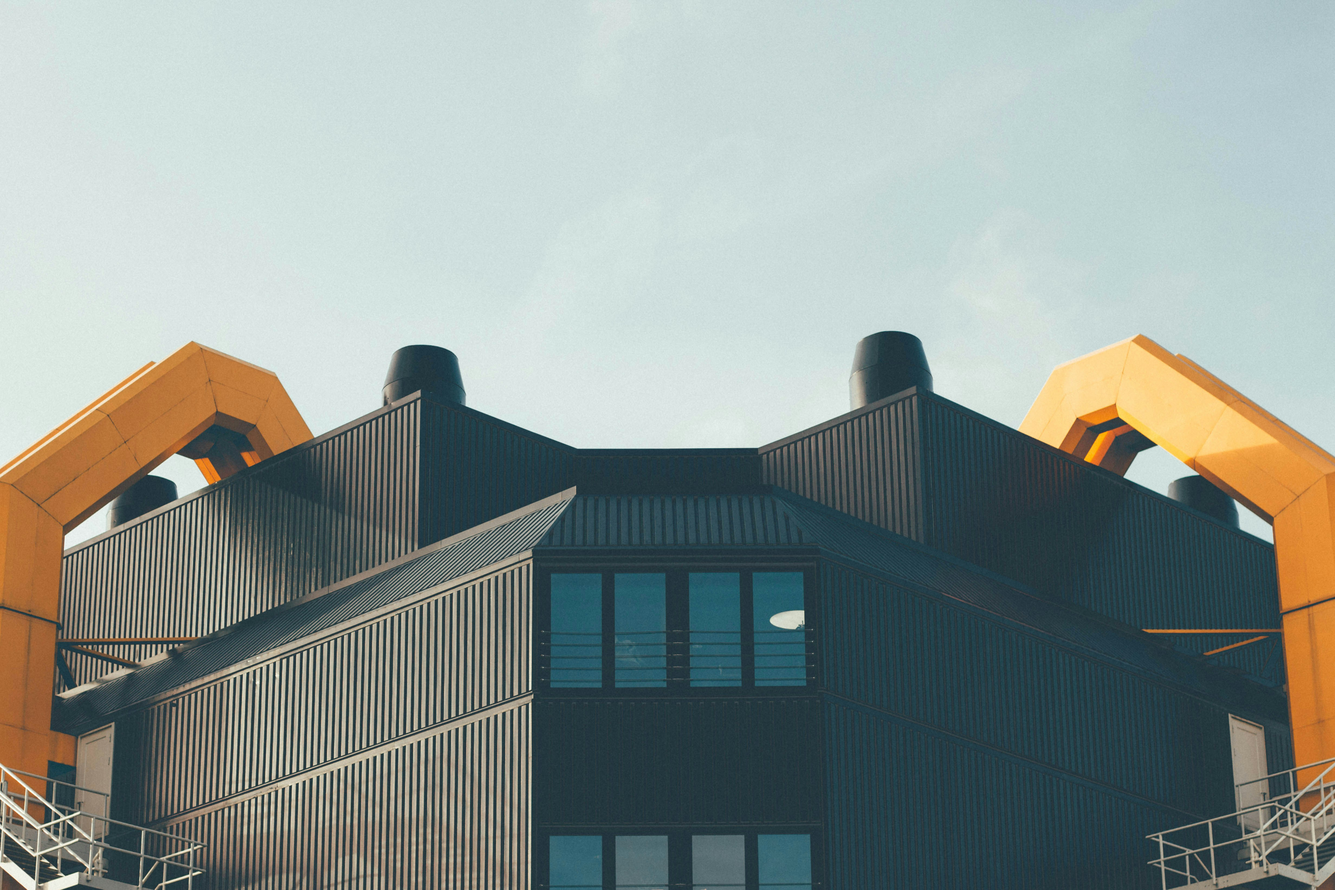
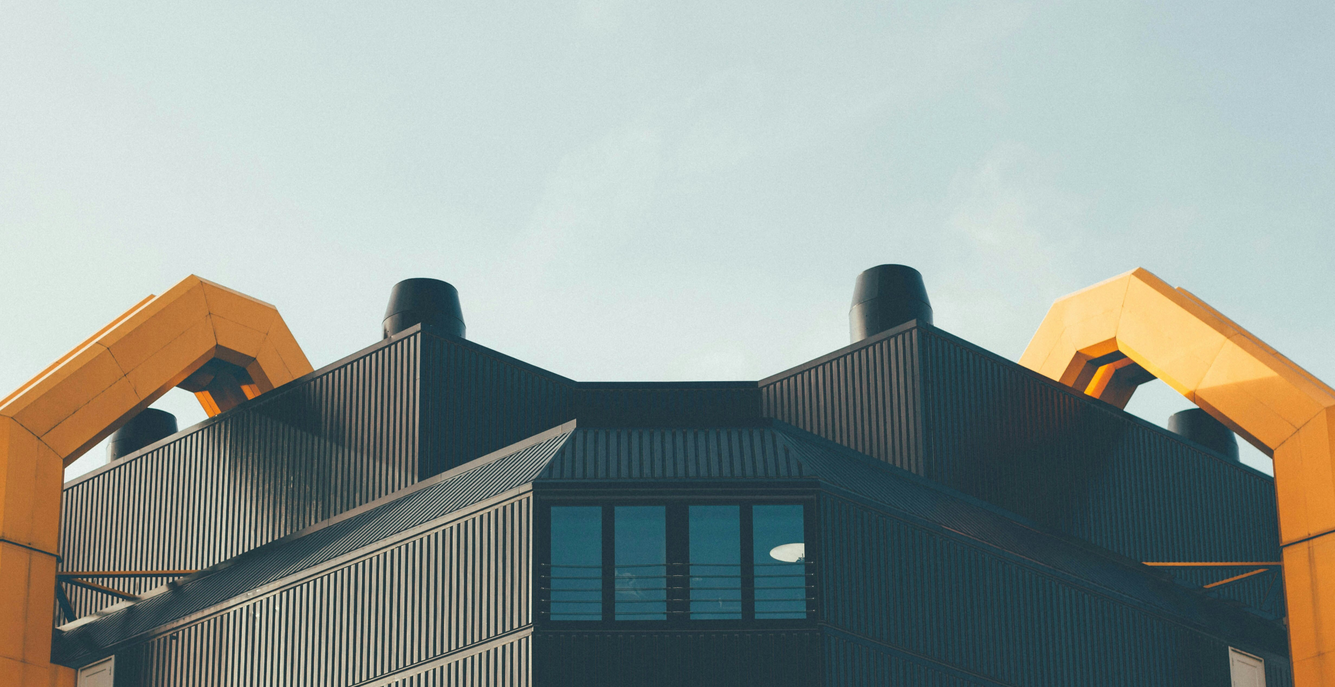
Footer e header resolvidos. Footer responsivo e variáveis atualizadas para valores porcentagem

Changed region(s): [[0.0, 0.3735, 1.0, 1.0]]

diff --git a/css/style.css b/css/style.css
@@ -49,7 +49,7 @@ header {
   
   /* .js ↓ */
   transition: transform 0.7s ease-in-out, opacity 0.5s ease-in-out;
-  opacity: 100%;
+  opacity: 1;
 }
 
 header.hide {
@@ -61,15 +61,11 @@ header>:first-child, header>:last-child {
   width: 130px;
 }
 
-header>nav {
-  width: auto;
-}
-
 header>nav>a, footer>nav>a {
   text-align: center;
 }
 
-header>nav>a:nth-child(2), footer>nav>a:nth-child(2) {
+header>nav>a:nth-child(2) {
   margin: 0 8vh;
 }
 
@@ -102,18 +98,22 @@ footer>a {
   align-items: center;
 }
 
-.float>a {
+.navbar {
+  width: fit-content;
+}
+
+.navbar>:nth-child(2) {
+  margin: 0 4vw;
+}
+
+.navbar>a {
   transition: transform 0.25s ease-in-out, opacity 0.4s ease;
   opacity: 100%;
 }
 
-.float>a:hover {
+.navbar>a:hover {
   transform: translateY(-3.5px);
   opacity: 75%;
-}
-
-footer>.float {
-  width: auto;
 }
 
 #hivemind {

diff --git a/css/land/hero.css b/css/land/hero.css
@@ -1,5 +1,13 @@
 @import url('../variables.css');
 
+/*
+  Sintaxe do padding: min() ↓
+  min(<fixa>, <rel>);
+  
+  É utilizado para responsividade de box, ele escolhe sempre o menor valor
+  rel = recomendado o uso de "%"
+*/
+
 #hero * {
   color: var(--black);
 }
@@ -12,11 +20,12 @@
 
 #background-img {
   margin: 0 !important;
-  padding: 160px 0px 752px 0px;
+  padding: min(10%, 160px) 0 min(40%, 760px) 0;
   background-image: url('../../img/background/hero.jpg');
   background-size: cover;
   background-position: center;
   background-repeat: no-repeat;
+  z-index: -1;
 }
 
 #hero>.container {
@@ -32,7 +41,7 @@
 }
 
 #hero>div:first-child>:nth-child(2) {
-  width: 300px;
+  max-width: 300px;
   margin: auto;
   margin-top: 12px;
 }

diff --git a/index.html b/index.html
@@ -26,7 +26,7 @@
                 <img src="img/icons/branding/TIMELEAN.png" alt="TIMELEAN">
             </a>
     
-            <nav class="inter float">
+            <nav class="inter navbar">
                 <a href="html/login.html">Home</a>
                 <a href="" target="_blank">Quem somos</a>
                 <a href="" target="_blank">FAQ</a>
@@ -193,7 +193,7 @@
                 <img src="img/icons/branding/HIVEMIND (white).png" alt="HIVEMIND">
             </button>
         </a>
-        <nav class="inter float">
+        <nav class="inter navbar">
                 <a href="html/login.html" target="">Home</a>
                 <a href="" target="_blank">Quem somos</a>
                 <a href="" target="_blank">FAQ</a>

diff --git a/css/text.css b/css/text.css
@@ -6,24 +6,28 @@
   clamp(<min>, <pref>, <max>);
   
   É utilizado para responsividade de caracteres
+  pref = recomendado o uso de "vw"
 */
 
 p {
-    font-size: 1rem;
+    /* font-size: 1rem; */
+    font-size: (1rem, calc(0.625vw + 1rem), 1.5rem);
 }
 
 h1 {
     /* font-size: 2rem; */
-    font-size: clamp(1rem, 2rem, 3rem);
-    line-height: 45px;
+    font-size: clamp(2rem, calc(1.25vw + 1rem), 3rem);
+    line-height: 1.35;
 }
 
 h2 {
-    font-size: 1.25rem;
+    /* font-size: 1.25rem; */
+    font-size: (1.25rem, calc(0.785vw + 1rem), 1.9rem);
 }
 
 h3 {
-    font-size: 1.15rem;
+    /* font-size: 1.15rem; */
+    font-size: (1.15rem, calc(0.715vw + 1rem), 1.7rem);
 }
 
 a {

diff --git a/css/variables.css b/css/variables.css
@@ -16,4 +16,6 @@
     --weak-shadow: 0px 2px 20px -15px rgba(0, 0, 0, 0.210);
     --strong-shadow: 0px 4px 40px 5px rgba(0, 0, 0, 0.120);
     --text-shadow:  0 10px 5px rgba(0, 0, 0, 0.250);
+
+    --navbar: 4vw;
 }
